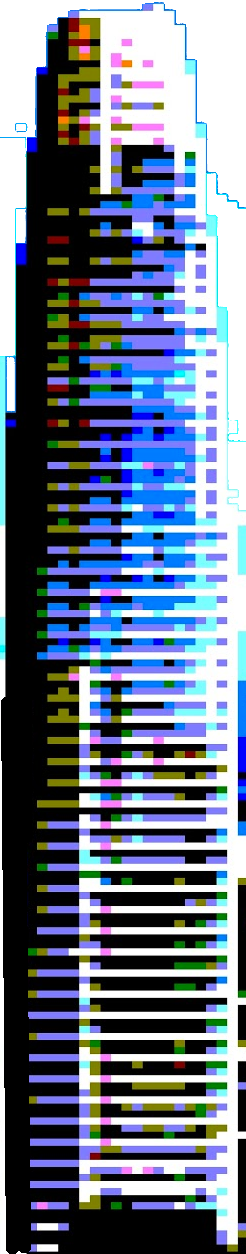
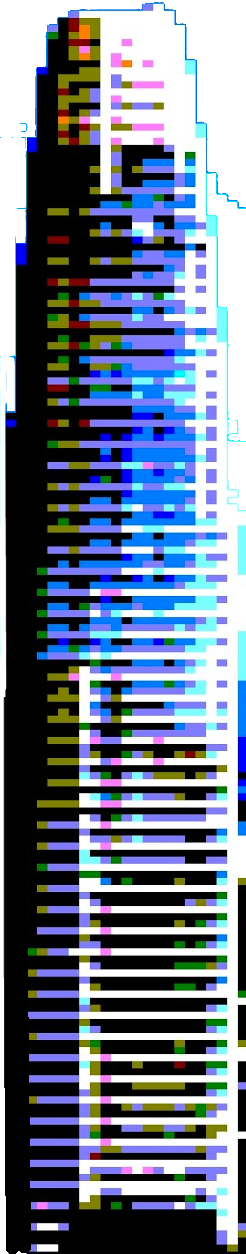
Add randomized towers

Changed region(s): [[0.0, 0.2799, 0.0285, 0.8708], [0.0569, 0.1555, 0.0854, 0.1866], [0.0569, 0.0933, 0.0854, 0.1244]]

diff --git a/dist/main.js b/dist/main.js
@@ -86,6 +86,17 @@
 /************************************************************************/
 /******/ ({
 
+/***/ "./src/control.js":
+/*!************************!*\
+  !*** ./src/control.js ***!
+  \************************/
+/*! no static exports found */
+/***/ (function(module, exports) {
+
+eval("let myGamePiece;\n\nfunction startGame() {\n  myGamePiece = new component(30, 30, \"red\", 225, 225);\n  myGameArea.start();\n}\n\nlet myGameArea = {\n  canvas: document.createElement(\"canvas\"),\n  start: function () {\n    this.canvas.width = 480;\n    this.canvas.height = 270;\n    this.context = this.canvas.getContext(\"2d\");\n    document.body.insertBefore(this.canvas, document.body.childNodes[0]);\n    this.frameNo = 0;\n    this.interval = setInterval(updateGameArea, 20);\n    window.addEventListener('keydown', function (e) {\n      e.preventDefault();\n      myGameArea.keys = (myGameArea.keys || []);\n      myGameArea.keys[e.keyCode] = (e.type == \"keydown\");\n    })\n    window.addEventListener('keyup', function (e) {\n      myGameArea.keys[e.keyCode] = (e.type == \"keydown\");\n    })\n  },\n  stop: function () {\n    clearInterval(this.interval);\n  },\n  clear: function () {\n    this.context.clearRect(0, 0, this.canvas.width, this.canvas.height);\n  }\n}\n\nfunction component(width, height, color, x, y, type) {\n\n  this.type = type;\n  this.width = width;\n  this.height = height;\n  this.speed = 0;\n  this.angle = 0;\n  this.moveAngle = 0;\n  this.x = x;\n  this.y = y;\n  this.update = function () {\n    ctx = myGameArea.context;\n    ctx.save();\n    ctx.translate(this.x, this.y);\n    ctx.rotate(this.angle);\n    ctx.fillStyle = color;\n    ctx.fillRect(this.width / -2, this.height / -2, this.width, this.height);\n    ctx.restore();\n  }\n  this.newPos = function () {\n    this.angle += this.moveAngle * Math.PI / 180;\n    this.x += this.speed * Math.sin(this.angle);\n    this.y -= this.speed * Math.cos(this.angle);\n  }\n}\n\nfunction updateGameArea() {\n  myGameArea.clear();\n  myGamePiece.moveAngle = 0;\n  myGamePiece.speed = 0;\n  if (myGameArea.keys && myGameArea.keys[37]) { myGamePiece.moveAngle = -1; }\n  if (myGameArea.keys && myGameArea.keys[39]) { myGamePiece.moveAngle = 1; }\n  if (myGameArea.keys && myGameArea.keys[38]) { myGamePiece.speed = 1; }\n  if (myGameArea.keys && myGameArea.keys[40]) { myGamePiece.speed = -1; }\n  myGamePiece.newPos();\n  myGamePiece.update();\n}\n\n//# sourceURL=webpack:///./src/control.js?");
+
+/***/ }),
+
 /***/ "./src/game.js":
 /*!*********************!*\
   !*** ./src/game.js ***!
@@ -94,7 +105,7 @@
 /***/ (function(module, __webpack_exports__, __webpack_require__) {
 
 "use strict";
-eval("__webpack_require__.r(__webpack_exports__);\n/* harmony export (binding) */ __webpack_require__.d(__webpack_exports__, \"default\", function() { return PaperPlane; });\n/* harmony import */ var _level__WEBPACK_IMPORTED_MODULE_0__ = __webpack_require__(/*! ./level */ \"./src/level.js\");\n/* harmony import */ var _plane__WEBPACK_IMPORTED_MODULE_1__ = __webpack_require__(/*! ./plane */ \"./src/plane.js\");\n// Canvas\n\n\n\n\nclass PaperPlane {\n  constructor(canvas) {\n    this.ctx = canvas.getContext(\"2d\");\n    this.dimensions = { width: canvas.width, height: canvas.height };\n    this.listenForEvents();\n    this.restart();\n  }\n\n  play() {\n    this.running = true;\n    this.animate();\n  }\n\n  restart() {\n    this.running = false;\n    this.score = 0;\n    this.plane = new _plane__WEBPACK_IMPORTED_MODULE_1__[\"default\"](this.dimensions);\n    this.level = new _level__WEBPACK_IMPORTED_MODULE_0__[\"default\"](this.dimensions); // pass in canvas dimensions.\n    this.animate();\n  }\n\n  animate() {\n    this.level.animate(this.ctx);\n    this.plane.animate(this.ctx);\n\n    if (this.gameOver()) {\n      alert(`You scored ${this.score}`);\n      this.restart();\n    }\n\n    this.level.passedTower(this.plane.bounds(), () => {\n      this.score += 1;\n      console.log(this.score);\n    });\n\n    this.drawScore();\n\n    if (this.running) {\n      requestAnimationFrame(this.animate.bind(this));\n    }\n  }\n\n  gameOver() {\n    return (\n      this.level.collidesWith(this.plane.bounds()) || this.plane.outOfBounds(this.height)\n    );\n  }\n\n  listenForEvents() {\n\n    window.addEventListener(\"keydown\", (e) => {\n      switch (e.keyCode) {\n        case 65:\n          this.moveLeft();\n          // console.log(\"left was pressed\");\n          break;\n        case 68:\n          this.moveRight();\n          // console.log(\"right was pressed\");\n          break;\n      }\n    }, false);\n  }\n\n  moveLeft() {\n    if (!this.running) {\n      this.play();\n    }\n    this.plane.flyLeft();\n  }\n\n  moveRight() {\n    if (!this.running) {\n      this.play();\n    }\n    this.plane.flyRight();\n  }\n\n  drawScore() {\n    const loc = { x: 10, y: 32 };\n    this.ctx.font = \"bold 18pt 'Press Start 2P'\";\n    this.ctx.fillStyle = \"white\";\n    this.ctx.fillText(`SCORE: ${this.score}`, loc.x, loc.y);\n    this.ctx.strokeStyle = \"black\";\n    this.ctx.lineWidth = 1;\n    this.ctx.strokeText(`SCORE: ${this.score}`, loc.x, loc.y);\n  }\n\n}\n\n//# sourceURL=webpack:///./src/game.js?");
+eval("__webpack_require__.r(__webpack_exports__);\n/* harmony export (binding) */ __webpack_require__.d(__webpack_exports__, \"default\", function() { return PaperPlane; });\n/* harmony import */ var _level__WEBPACK_IMPORTED_MODULE_0__ = __webpack_require__(/*! ./level */ \"./src/level.js\");\n/* harmony import */ var _plane__WEBPACK_IMPORTED_MODULE_1__ = __webpack_require__(/*! ./plane */ \"./src/plane.js\");\n// Canvas\n\n\n\n\nclass PaperPlane {\n  constructor(canvas) {\n    this.ctx = canvas.getContext(\"2d\");\n    this.dimensions = { width: canvas.width, height: canvas.height };\n    this.listenForEvents();\n    this.restart();\n  }\n\n  play() {\n    this.running = true;\n    this.animate();\n  }\n\n  restart() {\n    this.running = false;\n    this.score = 0;\n    this.plane = new _plane__WEBPACK_IMPORTED_MODULE_1__[\"default\"](this.dimensions);\n    this.level = new _level__WEBPACK_IMPORTED_MODULE_0__[\"default\"](this.dimensions); // pass in canvas dimensions.\n    this.animate();\n  }\n\n  animate() {\n    this.level.animate(this.ctx);\n    this.plane.animate(this.ctx);\n\n    if (this.gameOver()) {\n      alert(`You scored ${this.score}`);\n      this.restart();\n    }\n\n    this.level.passedTower(this.plane.bounds(), () => {\n      this.score += 1;\n      console.log(this.score);\n    });\n\n    this.drawScore();\n\n    if (this.running) {\n      requestAnimationFrame(this.animate.bind(this));\n    }\n  }\n\n  gameOver() {\n    return (\n      this.level.collidesWith(this.plane.bounds()) || this.plane.outOfBounds(this.height)\n    );\n  }\n\n  listenForEvents() {\n\n    window.addEventListener(\"keydown\", (e) => {\n      switch (e.keyCode) {\n        case 65:\n          this.moveLeft();\n          // console.log(\"left was pressed\");\n          break;\n        case 68:\n          this.moveRight();\n          // console.log(\"right was pressed\");\n          break;\n        case 87:\n          this.moveUp();\n          // console.log(\"right was pressed\");\n          break;\n      }\n    }, false);\n  }\n\n  moveLeft() {\n    if (!this.running) {\n      this.play();\n    }\n    this.plane.flyLeft();\n  }\n\n  moveRight() {\n    if (!this.running) {\n      this.play();\n    }\n    this.plane.flyRight();\n  }\n\n  moveUp() {\n    if (!this.running) {\n      this.play();\n    }\n    this.plane.flyUp();\n  }\n\n  drawScore() {\n    const loc = { x: 10, y: 32 };\n    this.ctx.font = \"bold 18pt 'Press Start 2P'\";\n    this.ctx.fillStyle = \"white\";\n    this.ctx.fillText(`SCORE: ${this.score}`, loc.x, loc.y);\n    this.ctx.strokeStyle = \"black\";\n    this.ctx.lineWidth = 1;\n    this.ctx.strokeText(`SCORE: ${this.score}`, loc.x, loc.y);\n  }\n\n}\n\n//# sourceURL=webpack:///./src/game.js?");
 
 /***/ }),
 
@@ -118,7 +129,7 @@ eval("__webpack_require__.r(__webpack_exports__);\n/* harmony import */ var _gam
 /***/ (function(module, __webpack_exports__, __webpack_require__) {
 
 "use strict";
-eval("__webpack_require__.r(__webpack_exports__);\n/* harmony export (binding) */ __webpack_require__.d(__webpack_exports__, \"default\", function() { return Level; });\n// Responsible for drawing the background and obstacles.\n// Will control the logic for how the obstacles move and how they are generated\n\nconst TUNE = {\n  TOWER_SPEED: 2,\n  GAP_HEIGHT: 170,\n  TOWER_WIDTH: 50,\n  EDGE_BUFFER: 10,\n  TOWER_SPACING: 320, // distance between pairs of towers\n  WARM_UP_SECONDS: 1 // gap between two towers\n};\n\nclass Level {\n  constructor(dimensions) {\n    this.dimensions = dimensions;\n\n    const firstTowerDistance =\n      this.dimensions.width + (TUNE.WARM_UP_SECONDS * 60 * TUNE.TOWER_SPEED);\n\n    this.towers = [\n      this.randomTower(firstTowerDistance),\n      this.randomTower(firstTowerDistance + TUNE.TOWER_SPACING),\n      this.randomTower(firstTowerDistance + (TUNE.TOWER_SPACING * 2)),\n    ];\n  }\n\n  randomTower(b) {\n    // const heightRange = this.dimensions.height - (2 * TUNE.EDGE_BUFFER) - TUNE.GAP_HEIGHT;\n    const heightRange = this.dimensions.height / 2;\n    // const gapTop = (Math.random() * heightRange) + TUNE.EDGE_BUFFER;\n    const gapTop = (Math.random() * heightRange) + TUNE.EDGE_BUFFER;\n    const tower = {\n      // topTower: {\n      //   left: b,\n      //   right: TUNE.TOWER_WIDTH + b,\n      //   top: 0,\n      //   bottom: gapTop\n      // },\n      bottomTower: {\n        left: b,\n        right: TUNE.TOWER_WIDTH + b,\n        top: gapTop + TUNE.GAP_HEIGHT,\n        bottom: this.dimensions.height\n      },\n      passed: false\n    };\n    return tower;\n  }\n\n  animate(ctx) {\n    this.drawBackground(ctx);\n    this.moveTowers();\n    this.drawTowers(ctx);\n  }\n\n  drawBackground(ctx) {\n    let img = document.getElementById(\"hidden-sf-bg\");\n    ctx.drawImage(img, 0, 0, this.dimensions.width, this.dimensions.height);\n  }\n\n  passedTower(plane, callback) {\n    this.eachTower((tower) => {\n      // if (tower.topTower.right < plane.left) {\n      if (tower.bottomTower.right < plane.left) {\n        if (!tower.passed) {\n          tower.passed = true;\n          callback();\n        }\n      }\n    });\n  }\n\n  moveTowers() {\n    this.eachTower(tower => {\n      // tower.topTower.left -= TUNE.TOWER_SPEED;\n      // tower.topTower.right -= TUNE.TOWER_SPEED;\n      tower.bottomTower.left -= TUNE.TOWER_SPEED;\n      tower.bottomTower.right -= TUNE.TOWER_SPEED;\n    });\n\n    // if (this.towers[0].topTower.right <= 0) {\n    if (this.towers[0].bottomTower.right <= 0) {\n      this.towers.shift();\n      // const newX = this.towers[1].topTower.left + TUNE.TOWER_SPACING + 75;\n      const newX = this.towers[1].bottomTower.left + TUNE.TOWER_SPACING + 75;\n      this.towers.push(this.randomTower(newX));\n    }\n  }\n\n  eachTower(callback) {\n    this.towers.forEach(callback.bind(this));\n  }\n\n\n  drawTowers(ctx) {\n    this.eachTower(tower => {\n      // ctx.fillStyle = \"darkred\";\n      let img1 = document.getElementById(\"hidden-sf-tower\");\n      let img2 = document.getElementById(\"hidden-ta-pyr\");\n\n      let towers = [img1, img2];\n\n      // ctx.fillRect(\n      //   ctx.drawImage(\n      //   img1,\n      //   tower.topTower.left,\n      //   tower.topTower.top,\n      //   TUNE.TOWER_WIDTH,\n      //   tower.topTower.bottom - tower.topTower.top\n      // );\n      // ctx.fillRect(\n      ctx.drawImage(\n        img2,\n        tower.bottomTower.left,\n        tower.bottomTower.top,\n        TUNE.TOWER_WIDTH,\n        tower.bottomTower.bottom - tower.bottomTower.top\n      );\n    });\n  }\n\n\n  collidesWith(plane) {\n    const _overlap = (rect1, rect2) => {\n      if (rect1.left > rect2.right || rect1.right < rect2.left) {\n        return false;\n      }\n      if (rect1.top > rect2.bottom || rect1.bottom < rect2.top) {\n        return false;\n      }\n      return true;\n    };\n    let collision = false;\n    this.eachTower((tower) => {\n      if (\n        // _overlap(tower.topTower, plane) ||\n        _overlap(tower.bottomTower, plane)\n      ) { collision = true; }\n    });\n    return collision;\n  }\n\n\n}\n\n//# sourceURL=webpack:///./src/level.js?");
+eval("__webpack_require__.r(__webpack_exports__);\n/* harmony export (binding) */ __webpack_require__.d(__webpack_exports__, \"default\", function() { return Level; });\n// Responsible for drawing the background and obstacles.\n// Will control the logic for how the obstacles move and how they are generated\n\nconst TUNE = {\n  TOWER_SPEED: 2,\n  GAP_HEIGHT: 170,\n  TOWER_WIDTH: 50,\n  EDGE_BUFFER: 10,\n  TOWER_SPACING: 320, // distance between pairs of towers\n  WARM_UP_SECONDS: 1 // gap between two towers\n};\n\nclass Level {\n  constructor(dimensions) {\n    this.dimensions = dimensions;\n\n    const firstTowerDistance =\n      this.dimensions.width + (TUNE.WARM_UP_SECONDS * 60 * TUNE.TOWER_SPEED);\n\n    this.towers = [\n      this.randomTower(firstTowerDistance),\n      this.randomTower(firstTowerDistance + TUNE.TOWER_SPACING),\n      this.randomTower(firstTowerDistance + (TUNE.TOWER_SPACING * 2)),\n    ];\n  }\n\n  randomTower(b) {\n    let img1 = document.getElementById(\"hidden-sf-tower\");\n    let img2 = document.getElementById(\"hidden-ta-pyr\");\n    let img3 = document.getElementById(\"hidden-sf-millenium\");\n    let img4= document.getElementById(\"hidden-sf-coit\");\n\n    const towers = [img1, img2, img3, img4];\n    // const heightRange = this.dimensions.height - (2 * TUNE.EDGE_BUFFER) - TUNE.GAP_HEIGHT;\n    const heightRange = this.dimensions.height / 2;\n    // const gapTop = (Math.random() * heightRange) + TUNE.EDGE_BUFFER;\n    const gapTop = (Math.random() * heightRange) + TUNE.EDGE_BUFFER;\n    const tower = {\n      // topTower: {\n      //   left: b,\n      //   right: TUNE.TOWER_WIDTH + b,\n      //   top: 0,\n      //   bottom: gapTop\n      // },\n      bottomTower: {\n        img: towers[Math.floor(Math.random() * towers.length)],\n        left: b,\n        right: TUNE.TOWER_WIDTH + b,\n        top: gapTop + TUNE.GAP_HEIGHT,\n        bottom: this.dimensions.height\n      },\n      passed: false\n    };\n    return tower;\n  }\n\n  animate(ctx) {\n    this.drawBackground(ctx);\n    this.moveTowers();\n    this.drawTowers(ctx);\n  }\n\n  drawBackground(ctx) {\n    let img = document.getElementById(\"hidden-sf-bg\");\n    ctx.drawImage(img, 0, 0, this.dimensions.width, this.dimensions.height);\n  }\n\n  passedTower(plane, callback) {\n    this.eachTower((tower) => {\n      // if (tower.topTower.right < plane.left) {\n      if (tower.bottomTower.right < plane.left) {\n        if (!tower.passed) {\n          tower.passed = true;\n          callback();\n        }\n      }\n    });\n  }\n\n  moveTowers() {\n    this.eachTower(tower => {\n      // tower.topTower.left -= TUNE.TOWER_SPEED;\n      // tower.topTower.right -= TUNE.TOWER_SPEED;\n      tower.bottomTower.left -= TUNE.TOWER_SPEED;\n      tower.bottomTower.right -= TUNE.TOWER_SPEED;\n    });\n\n    // if (this.towers[0].topTower.right <= 0) {\n    if (this.towers[0].bottomTower.right <= 0) {\n      this.towers.shift();\n      // const newX = this.towers[1].topTower.left + TUNE.TOWER_SPACING + 75;\n      const newX = this.towers[1].bottomTower.left + TUNE.TOWER_SPACING + 75;\n      this.towers.push(this.randomTower(newX));\n    }\n  }\n\n  eachTower(callback) {\n    this.towers.forEach(callback.bind(this));\n  }\n\n\n  drawTowers(ctx) {\n    this.eachTower(tower => {\n      // ctx.fillStyle = \"darkred\";\n      // let img1 = document.getElementById(\"hidden-sf-tower\");\n      // let img2 = document.getElementById(\"hidden-ta-pyr\");\n\n      // let towers = [img1, img2];\n\n      // ctx.fillRect(\n      //   ctx.drawImage(\n      //   img1,\n      //   tower.topTower.left,\n      //   tower.topTower.top,\n      //   TUNE.TOWER_WIDTH,\n      //   tower.topTower.bottom - tower.topTower.top\n      // );\n      // ctx.fillRect(\n      ctx.drawImage(\n        tower.bottomTower.img,\n        tower.bottomTower.left,\n        tower.bottomTower.top,\n        TUNE.TOWER_WIDTH,\n        tower.bottomTower.bottom - tower.bottomTower.top\n      );\n    });\n  }\n\n\n  collidesWith(plane) {\n    const _overlap = (rect1, rect2) => {\n      if (rect1.left > rect2.right || rect1.right < rect2.left) {\n        return false;\n      }\n      if (rect1.top > rect2.bottom || rect1.bottom < rect2.top) {\n        return false;\n      }\n      return true;\n    };\n    let collision = false;\n    this.eachTower((tower) => {\n      if (\n        // _overlap(tower.topTower, plane) ||\n        _overlap(tower.bottomTower, plane)\n      ) { collision = true; }\n    });\n    return collision;\n  }\n\n\n}\n\n//# sourceURL=webpack:///./src/level.js?");
 
 /***/ }),
 
@@ -130,7 +141,7 @@ eval("__webpack_require__.r(__webpack_exports__);\n/* harmony export (binding) *
 /***/ (function(module, __webpack_exports__, __webpack_require__) {
 
 "use strict";
-eval("__webpack_require__.r(__webpack_exports__);\n/* harmony export (binding) */ __webpack_require__.d(__webpack_exports__, \"default\", function() { return Plane; });\nconst TUNE = {\n  GRAVITY: 0.4,\n  FLT_SPEED: 8,\n  TERMINAL_VEL: 12,\n  PLANE_WIDTH: 40,\n  PLANE_HEIGHT: 30\n};\n\nclass Plane {\n\n  constructor(dimensions) {\n    this.dimensions = dimensions;\n    this.x = this.dimensions.width / 3;\n    this.y = this.dimensions.height / 2;\n    this.vel = 0;\n  }\n\n  flyLeft() {\n    this.vel = -1 * TUNE.FLT_SPEED;\n  }\n\n  flyRight() {\n    this.vel = -1 * TUNE.FLT_SPEED;\n  }\n\n  movePlane() {\n    this.y += this.vel;\n    this.vel += TUNE.GRAVITY;\n    if (Math.abs(this.vel) > TUNE.TERMINAL_VEL) {\n      if (this.vel > 0) {\n        this.vel = TUNE.TERMINAL_VEL;\n      } else {\n        this.vel = TUNE.TERMINAL_VEL * -1;\n      }\n    }\n  }\n\n  animate(ctx) {\n    this.movePlane();\n    this.drawPlane(ctx);\n  }\n\n  drawPlane(ctx) {\n    let img = document.getElementById(\"hidden-plane\");\n    ctx.drawImage(img, this.x, this.y, TUNE.PLANE_WIDTH, TUNE.PLANE_HEIGHT);\n  }\n\n  bounds() {\n    return {\n      left: this.x,\n      right: this.x + TUNE.PLANE_WIDTH,\n      top: this.y,\n      bottom: this.y + TUNE.PLANE_HEIGHT\n    };\n  }\n\n  outOfBounds() {\n    const aboveTheTop = this.y < 0;\n    const belowTheBottom = this.y + TUNE.PLANE_HEIGHT > this.dimensions.height;\n    return aboveTheTop || belowTheBottom;\n  }\n}\n\n//# sourceURL=webpack:///./src/plane.js?");
+eval("__webpack_require__.r(__webpack_exports__);\n/* harmony export (binding) */ __webpack_require__.d(__webpack_exports__, \"default\", function() { return Plane; });\n/* harmony import */ var _control_js__WEBPACK_IMPORTED_MODULE_0__ = __webpack_require__(/*! ./control.js */ \"./src/control.js\");\n/* harmony import */ var _control_js__WEBPACK_IMPORTED_MODULE_0___default = /*#__PURE__*/__webpack_require__.n(_control_js__WEBPACK_IMPORTED_MODULE_0__);\n\n\nconst TUNE = {\n  GRAVITY: 0.4,\n  FLT_SPEED: 8,\n  TERMINAL_VEL: 12,\n  PLANE_WIDTH: 40,\n  PLANE_HEIGHT: 30\n};\n\nclass Plane {\n\n  constructor(dimensions) {\n    this.dimensions = dimensions;\n    this.x = this.dimensions.width / 3;\n    this.y = this.dimensions.height / 2;\n    this.vel = 0;\n  }\n\n  flyLeft() {\n    this.x -= 20;\n  }\n\n  flyRight() {\n    this.x += 20;\n  }\n\n  flyUp() {\n    this.vel = -1 * TUNE.FLT_SPEED;\n  }\n\n  movePlane() {\n    this.y += this.vel;\n    this.vel += TUNE.GRAVITY;\n    if (Math.abs(this.vel) > TUNE.TERMINAL_VEL) {\n      if (this.vel > 0) {\n        this.vel = TUNE.TERMINAL_VEL;\n      } else {\n        this.vel = TUNE.TERMINAL_VEL * -1;\n      }\n    }\n  }\n\n  animate(ctx) {\n    this.movePlane();\n    this.drawPlane(ctx);\n  }\n\n  drawPlane(ctx) {\n    let img = document.getElementById(\"hidden-plane\");\n    ctx.drawImage(img, this.x, this.y, TUNE.PLANE_WIDTH, TUNE.PLANE_HEIGHT);\n  }\n\n  bounds() {\n    return {\n      left: this.x,\n      right: this.x + TUNE.PLANE_WIDTH,\n      top: this.y,\n      bottom: this.y + TUNE.PLANE_HEIGHT\n    };\n  }\n\n  outOfBounds() {\n    const aboveTheTop = this.y < 0;\n    const belowTheBottom = this.y + TUNE.PLANE_HEIGHT > this.dimensions.height;\n    return aboveTheTop || belowTheBottom;\n  }\n}\n\n//# sourceURL=webpack:///./src/plane.js?");
 
 /***/ })
 

diff --git a/src/control.js b/src/control.js
@@ -1,0 +1,70 @@
+let myGamePiece;
+
+function startGame() {
+  myGamePiece = new component(30, 30, "red", 225, 225);
+  myGameArea.start();
+}
+
+let myGameArea = {
+  canvas: document.createElement("canvas"),
+  start: function () {
+    this.canvas.width = 480;
+    this.canvas.height = 270;
+    this.context = this.canvas.getContext("2d");
+    document.body.insertBefore(this.canvas, document.body.childNodes[0]);
+    this.frameNo = 0;
+    this.interval = setInterval(updateGameArea, 20);
+    window.addEventListener('keydown', function (e) {
+      e.preventDefault();
+      myGameArea.keys = (myGameArea.keys || []);
+      myGameArea.keys[e.keyCode] = (e.type == "keydown");
+    })
+    window.addEventListener('keyup', function (e) {
+      myGameArea.keys[e.keyCode] = (e.type == "keydown");
+    })
+  },
+  stop: function () {
+    clearInterval(this.interval);
+  },
+  clear: function () {
+    this.context.clearRect(0, 0, this.canvas.width, this.canvas.height);
+  }
+}
+
+function component(width, height, color, x, y, type) {
+
+  this.type = type;
+  this.width = width;
+  this.height = height;
+  this.speed = 0;
+  this.angle = 0;
+  this.moveAngle = 0;
+  this.x = x;
+  this.y = y;
+  this.update = function () {
+    ctx = myGameArea.context;
+    ctx.save();
+    ctx.translate(this.x, this.y);
+    ctx.rotate(this.angle);
+    ctx.fillStyle = color;
+    ctx.fillRect(this.width / -2, this.height / -2, this.width, this.height);
+    ctx.restore();
+  }
+  this.newPos = function () {
+    this.angle += this.moveAngle * Math.PI / 180;
+    this.x += this.speed * Math.sin(this.angle);
+    this.y -= this.speed * Math.cos(this.angle);
+  }
+}
+
+function updateGameArea() {
+  myGameArea.clear();
+  myGamePiece.moveAngle = 0;
+  myGamePiece.speed = 0;
+  if (myGameArea.keys && myGameArea.keys[37]) { myGamePiece.moveAngle = -1; }
+  if (myGameArea.keys && myGameArea.keys[39]) { myGamePiece.moveAngle = 1; }
+  if (myGameArea.keys && myGameArea.keys[38]) { myGamePiece.speed = 1; }
+  if (myGameArea.keys && myGameArea.keys[40]) { myGamePiece.speed = -1; }
+  myGamePiece.newPos();
+  myGamePiece.update();
+}

diff --git a/src/level.js b/src/level.js
@@ -25,6 +25,12 @@ export default class Level {
   }
 
   randomTower(b) {
+    let img1 = document.getElementById("hidden-sf-tower");
+    let img2 = document.getElementById("hidden-ta-pyr");
+    let img3 = document.getElementById("hidden-sf-millenium");
+    let img4= document.getElementById("hidden-sf-coit");
+
+    const towers = [img1, img2, img3, img4];
     // const heightRange = this.dimensions.height - (2 * TUNE.EDGE_BUFFER) - TUNE.GAP_HEIGHT;
     const heightRange = this.dimensions.height / 2;
     // const gapTop = (Math.random() * heightRange) + TUNE.EDGE_BUFFER;
@@ -37,6 +43,7 @@ export default class Level {
       //   bottom: gapTop
       // },
       bottomTower: {
+        img: towers[Math.floor(Math.random() * towers.length)],
         left: b,
         right: TUNE.TOWER_WIDTH + b,
         top: gapTop + TUNE.GAP_HEIGHT,
@@ -95,10 +102,10 @@ export default class Level {
   drawTowers(ctx) {
     this.eachTower(tower => {
       // ctx.fillStyle = "darkred";
-      let img1 = document.getElementById("hidden-sf-tower");
-      let img2 = document.getElementById("hidden-ta-pyr");
+      // let img1 = document.getElementById("hidden-sf-tower");
+      // let img2 = document.getElementById("hidden-ta-pyr");
 
-      let towers = [img1, img2];
+      // let towers = [img1, img2];
 
       // ctx.fillRect(
       //   ctx.drawImage(
@@ -110,7 +117,7 @@ export default class Level {
       // );
       // ctx.fillRect(
       ctx.drawImage(
-        img2,
+        tower.bottomTower.img,
         tower.bottomTower.left,
         tower.bottomTower.top,
         TUNE.TOWER_WIDTH,

diff --git a/index.html b/index.html
@@ -13,14 +13,20 @@
   <div class="app-container">
 
     <div class="info">
-      Ascending Paper Plane 🛫
+      <h4>Ascending Paper Plane 🛫</h4>
+      Steer your paper airplane through the city, avoiding obstacles and hitting the highest score possible.
       <br/>
+      <h4>Controls</h4>
+      W: Fly Upward
       <br/>
-      Use the WASD keys to steer your paper airplane through the city, avoiding obstacles and hitting the highest score possible.
+      A: Propel Forward
+      <br/>
+      D: Backpadel
     </div>
     
     <div class="game-canvas">
-      <canvas id="plane-game" height="640" width="980"></canvas>
+        <canvas id="plane-game" height="530" width="980"></canvas>
+      <img width="980px" src="assets/ground.png"/>
     </div>
 
     <div class="contact">
@@ -35,13 +41,17 @@
 
     <img id="hidden-plane" width="300" height="300" src="assets/plane-8bit.png">
     
-    <img id="hidden-sf-bg" width="300" height="300" src="assets/sf-8bit.png">
+    <img id="hidden-sf-bg" width="300" height="300" src="assets/sf-8bit-cropped.png">
     
     <img id="hidden-sky" width="300" height="300" src="assets/sky-bg.png">
     
     <img id="hidden-sf-tower" width="300" height="300" src="assets/sf-tower.png">
     
     <img id="hidden-ta-pyr" width="300" height="300" src="assets/ta-pyr.png">
+    
+    <img id="hidden-sf-millenium" width="300" height="300" src="assets/sf-millenium.png">
+    
+    <img id="hidden-sf-coit" width="300" height="300" src="assets/coit-twr.png">
 
 </body>
 

diff --git a/style.css b/style.css
@@ -1,4 +1,4 @@
-#hidden-plane, #hidden-sky, #hidden-sf-bg, #hidden-sf-tower, #hidden-ta-pyr {
+#hidden-plane, #hidden-sky, #hidden-sf-bg, #hidden-sf-tower, #hidden-ta-pyr, #hidden-sf-millenium, #hidden-sf-coit {
   display: none;
 }
 
@@ -8,18 +8,26 @@
   border: 1px solid black;
   width: 100%;
   font-family: 'Courier New', Courier, monospace;
-  height: 640px;
+  height: 635px;
 }
 
+
 .game-canvas{
+  background-color: black;
   border-left: 1px solid black;
   border-right: 1px solid black;
+  border-bottom: 1px solid black;
+  width: 97%;
+}
+
+.space {
+  padding: 0;
+  display: inline-block;
 }
 
 .info {
   margin:10px;
   width: 20%;
-  /* flex-wrap: wrap; */
 }
 
 .icon {
@@ -27,6 +35,7 @@
 }
 
 .contact {
+  text-align: center;
   margin: 10px;
   width: 20%;
 }

diff --git a/src/game.js b/src/game.js
@@ -63,6 +63,10 @@ export default class PaperPlane {
           this.moveRight();
           // console.log("right was pressed");
           break;
+        case 87:
+          this.moveUp();
+          // console.log("right was pressed");
+          break;
       }
     }, false);
   }
@@ -79,6 +83,13 @@ export default class PaperPlane {
       this.play();
     }
     this.plane.flyRight();
+  }
+
+  moveUp() {
+    if (!this.running) {
+      this.play();
+    }
+    this.plane.flyUp();
   }
 
   drawScore() {

diff --git a/src/plane.js b/src/plane.js
@@ -1,3 +1,5 @@
+import './control.js';
+
 const TUNE = {
   GRAVITY: 0.4,
   FLT_SPEED: 8,
@@ -16,10 +18,14 @@ export default class Plane {
   }
 
   flyLeft() {
-    this.vel = -1 * TUNE.FLT_SPEED;
+    this.x -= 20;
   }
 
   flyRight() {
+    this.x += 20;
+  }
+
+  flyUp() {
     this.vel = -1 * TUNE.FLT_SPEED;
   }
 
